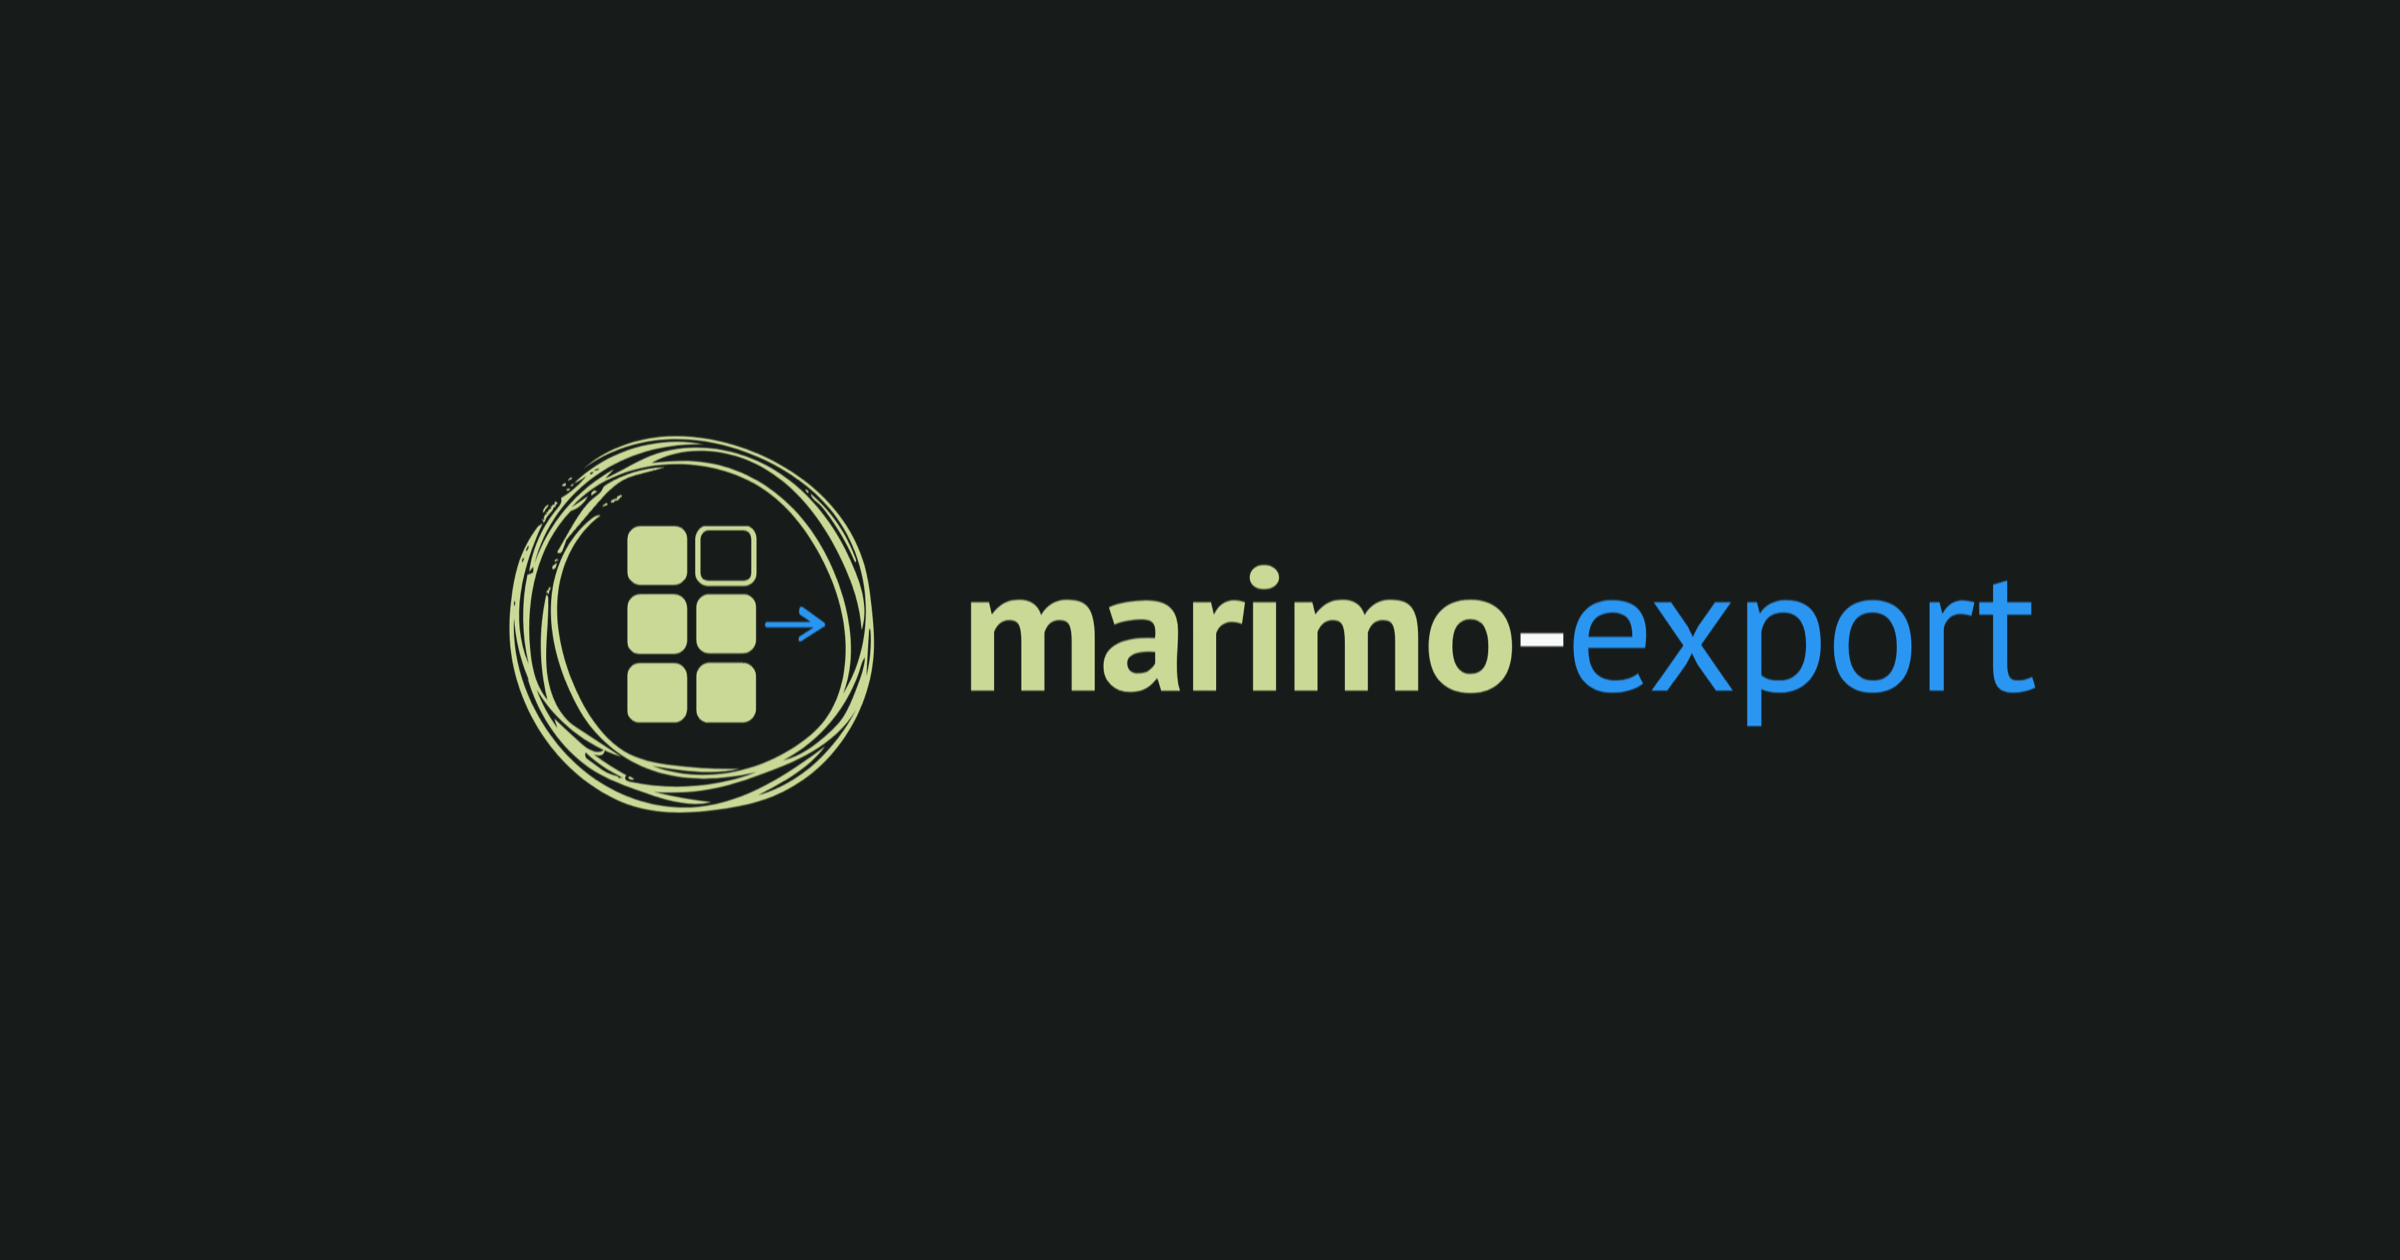
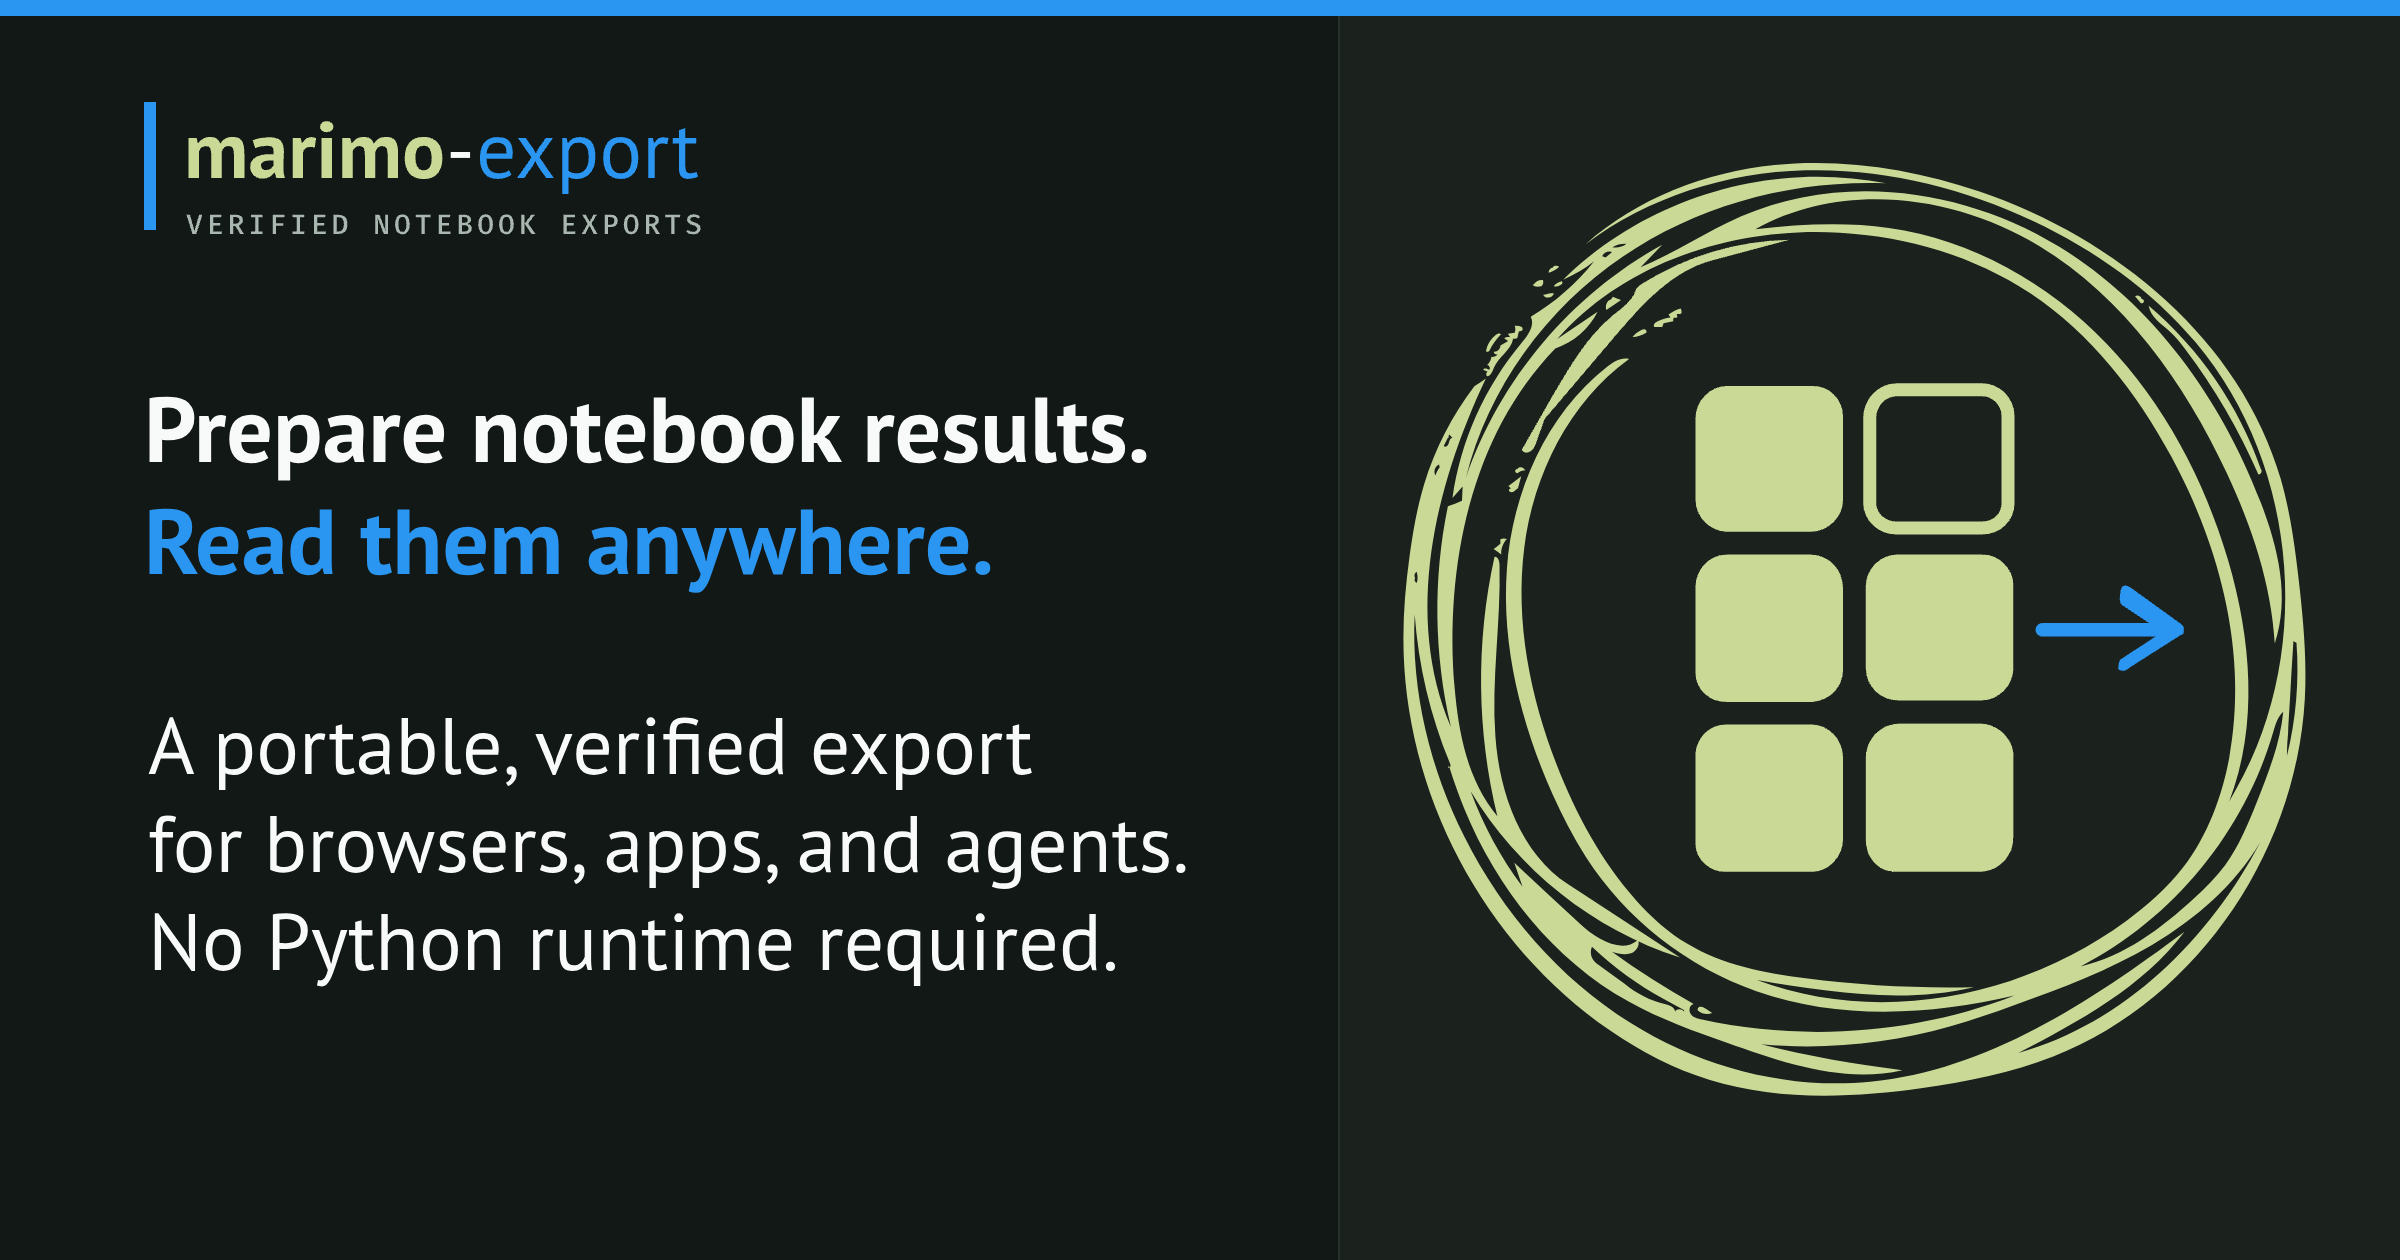
docs: align branding and social previews
Give the docs site dedicated favicon assets and carry the portable, verified export message through social metadata, the README, and the landing page. Guard the generated social contract in the docs build.

Changed region(s): [[0.0625, 0.1238, 0.9688, 0.8667], [0.0, 0.0, 1.0, 0.031], [0.0625, 0.0929, 0.2812, 0.1857]]

diff --git a/apps/docs/scripts/check-built-docs.ts b/apps/docs/scripts/check-built-docs.ts
@@ -58,7 +58,8 @@ const files = documentationPages.flatMap(({ link }) => [
   htmlForRoute(link),
   markdownForRoute(link),
 ]);
-const requiredFiles = [...files, "llms.txt", "llms-full.txt", "sitemap.xml"];
+const socialImagePath = "brand/marimo-export-og.png";
+const requiredFiles = [...files, socialImagePath, "llms.txt", "llms-full.txt", "sitemap.xml"];
 const missing = await missingFiles(requiredFiles);
 
 const llms = await readFile(join(outputDirectory, "llms.txt"), "utf8");
@@ -95,6 +96,38 @@ const expectedCanonicalLinks = new Set(
 const llmsDifference = compareSets(expectedMarkdownLinks, new Set(llmsLinks));
 const llmsFullDifference = compareSets(expectedMarkdownLinks, new Set(llmsFullLinks));
 const sitemapDifference = compareSets(expectedCanonicalLinks, new Set(sitemapLinks));
+const socialMetadata = new Map(
+  [...index.matchAll(/<meta (?:property|name)="([^"]+)" content="([^"]*)">/g)]
+    .map((match) => [match[1], match[2]] as const)
+    .filter((entry): entry is readonly [string, string] => entry[0] !== undefined),
+);
+const expectedSocialMetadata = new Map([
+  ["og:title", "marimo-export: Prepare notebook results. Read them anywhere."],
+  [
+    "og:description",
+    "Build a portable, verified export from selected marimo notebook states. Browser applications and agents can use it without a Python runtime.",
+  ],
+  ["og:image", new URL(socialImagePath, siteUrl).href],
+  ["og:image:width", "2400"],
+  ["og:image:height", "1260"],
+  [
+    "og:image:alt",
+    "marimo-export mark pointing from prepared notebook states toward a portable export.",
+  ],
+  ["twitter:card", "summary_large_image"],
+  ["twitter:title", "marimo-export: Prepare notebook results. Read them anywhere."],
+  [
+    "twitter:description",
+    "Build a portable, verified export from selected marimo notebook states. Browser applications and agents can use it without a Python runtime.",
+  ],
+  ["twitter:image", new URL(socialImagePath, siteUrl).href],
+]);
+const incorrectSocialMetadata = [...expectedSocialMetadata].flatMap(([name, expected]) => {
+  const actual = socialMetadata.get(name);
+  return actual === expected
+    ? []
+    : [`${name}: expected ${expected}, received ${actual ?? "missing"}`];
+});
 
 const baseName = process.env.BASE_PATH?.trim().replace(/^\/+|\/+$/g, "");
 const assetPrefix = baseName ? `/${baseName}` : "";
@@ -128,6 +161,7 @@ const errors = [
   ...formatList("Duplicate sitemap URLs", duplicates(sitemapLinks)),
   ...formatList("Missing sitemap URLs", sitemapDifference.missing),
   ...formatList("Unexpected sitemap URLs", sitemapDifference.unexpected),
+  ...formatList("Incorrect social metadata", incorrectSocialMetadata),
   ...(index.includes(`href="${assetPrefix}/assets/`)
     ? []
     : [`Built index does not use the expected stylesheet prefix ${assetPrefix || "/"}.`]),

diff --git a/apps/docs/.vitepress/config.ts b/apps/docs/.vitepress/config.ts
@@ -13,9 +13,10 @@ import { documentationSidebar, llmsSidebar, topNavigation } from "../navigation.
 const repository = "https://github.com/marimo-team/marimo-export";
 const siteUrl = new URL("https://marimo-team.github.io/marimo-export/");
 const description =
-  "Select marimo notebook states and outputs, prepare them once, and read the resulting export from applications, agents, Python, and TypeScript.";
-const socialTitle = "Prepare notebook results for any application.";
-const socialImageAlt = `marimo-export: ${socialTitle}`;
+  "Build a portable, verified export from selected marimo notebook states. Browser applications and agents can use it without a Python runtime.";
+const socialTitle = "Prepare notebook results. Read them anywhere.";
+const socialImageAlt =
+  "marimo-export mark pointing from prepared notebook states toward a portable export.";
 const socialImageUrl = new URL("brand/marimo-export-og.png", siteUrl).href;
 const baseName = process.env.BASE_PATH?.trim().replace(/^\/+|\/+$/g, "");
 const basePath = baseName ? `/${baseName}` : "";
@@ -64,7 +65,7 @@ export default defineConfig({
     [
       "link",
       {
-        href: publicPath("/brand/marimo-export-mark-light.svg"),
+        href: publicPath("/brand/marimo-export-favicon-light.svg"),
         media: "(prefers-color-scheme: light)",
         rel: "icon",
         type: "image/svg+xml",
@@ -73,7 +74,7 @@ export default defineConfig({
     [
       "link",
       {
-        href: publicPath("/brand/marimo-export-mark-dark.svg"),
+        href: publicPath("/brand/marimo-export-favicon-dark.svg"),
         media: "(prefers-color-scheme: dark)",
         rel: "icon",
         type: "image/svg+xml",

diff --git a/docs/index.md b/docs/index.md
@@ -1,12 +1,12 @@
 ---
 layout: home
-title: "marimo-export: Prepare notebook results for any application"
+title: "marimo-export: Prepare notebook results. Read them anywhere."
 titleTemplate: false
-description: Select the marimo notebook states and outputs an application needs, prepare them once, and read the resulting export from Python, TypeScript, agents, or custom clients.
+description: Build a portable, verified export from selected marimo notebook states. Browser applications and agents can use it without a Python runtime.
 
 hero:
-  text: Prepare notebook results for any application.
-  tagline: Select the notebook states and outputs your application needs. Run them through marimo, write one portable export, then read it from Python, TypeScript, agents, or custom clients.
+  text: Prepare notebook results. Read them anywhere.
+  tagline: Select the states and outputs to run through marimo. marimo-export writes a portable, verified artifact that browser applications and agents read after the producer stops, without a Python runtime.
   image:
     light: /brand/marimo-export-lockup-stacked-light.svg
     dark: /brand/marimo-export-lockup-stacked-dark.svg

diff --git a/README.md b/README.md
@@ -8,7 +8,7 @@
 </p>
 
 <p align="center">
-  <em>Prepare notebook results once, then read the same export from Python, TypeScript, agents, or custom applications.</em>
+  <strong>Prepare notebook results. Read them anywhere.</strong>
 </p>
 
 <p align="center">
@@ -27,9 +27,9 @@
 </p>
 
 marimo-export runs selected states of a [marimo](https://marimo.io/) notebook
-and writes their named results to a portable **notebook export**. Python,
-TypeScript, agents, and custom clients can read that export after the producer
-stops.
+and writes their named results to a portable, verified **notebook export**.
+Browser applications and agents can read that export after the producer stops,
+without a Python runtime. Python and TypeScript clients use the same files.
 
 ## Build the quickstart
 
